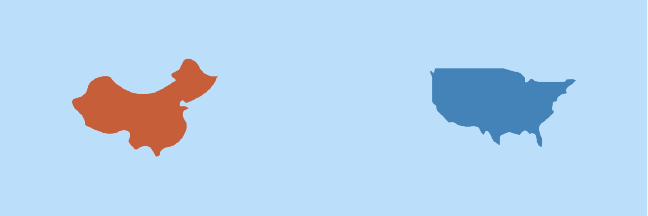
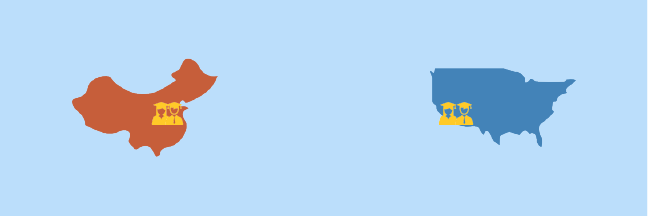
adjust cards and animation

Changed region(s): [[0.216, 0.4722, 0.3086, 0.5833], [0.679, 0.4722, 0.7407, 0.5833]]

diff --git a/index.html b/index.html
@@ -89,7 +89,7 @@
             <div id="studyfield">
                 
                 <div class="students">
-                    <img src="images/students.png" alt="students avatar">
+                    <!--<img src="images/students.png" alt="students avatar">-->
                     <a href="#studyingpath"><div class="mask"></div></a>
                 </div>
             
@@ -178,7 +178,7 @@
                                 <div class="back">
                                     <div class="card blue lighten-1">
                                         <div class="card-content white-text">
-                                           <p class="flow-text">In addition to the prosperous metropolitan cities such as Beijing, Shanghai and Guangzhou, more students whose hometowns are mid-size or small-size cities in China go to U.S. to pursue education.
+                                           <p id="detail_1">In addition to the prosperous metropolitan cities such as Beijing, Shanghai and Guangzhou, more students whose hometowns are mid-size or small-size cities in China go to U.S. to pursue education.
                                         </p> 
                                         </div>
                                         </div>
@@ -205,7 +205,7 @@
                                 <div class="back">
                                     <div class="card blue lighten-1">
                                         <div class="card-content white-text">
-                                           <p class="flow-text">The STEM majors will still be the popular choices for Chinese students. Nonetheless, students are choosing more diverse majors in different levels of education in U.S..
+                                           <p id="detail_2">The STEM majors will still be the popular choices for Chinese students. Nonetheless, students are choosing more diverse majors in different levels of education in U.S..
                                         </p> 
                                         </div>
                                         </div>
@@ -231,7 +231,7 @@
                                 <div class="back">
                                     <div class="card blue lighten-1">
                                         <div class="card-content white-text">
-                                           <p class="flow-text">Cities in the West and East Coast of U.S. are still popular destinations for Chinese students. Nonetheless, places where students traveling to pursue education become more diverse.
+                                           <p id="detail_3">Cities in the West and East Coast of U.S. are still popular destinations for Chinese students. Nonetheless, places where students traveling to pursue education become more diverse.
                                         </p> 
                                         </div>
                                         </div>

diff --git a/css/style.css b/css/style.css
@@ -7,7 +7,9 @@ body {
     position: absolute;
 }
 
-
+.wrapper {
+    width: 100%;
+}
 
 
 .topnav {
@@ -218,6 +220,7 @@ body {
     float: right;
 }
 
+/*
 .students img {
     position: relative;
     padding-right: 55px;
@@ -226,6 +229,7 @@ body {
     margin-bottom: -175px;
     margin-top: 150px;
 }
+*/
 
 .mask {
     width: 216px;
@@ -351,6 +355,50 @@ body {
     margin-left: 3.5px;
     padding-top: 25px;
     padding-bottom: 300px;
+    margin-bottom: 100px;
+    height: 373px;
+}
+
+
+
+
+.card {
+    width: 100%;
+    height: 375px;
+}
+
+/*.card-content {
+    vertical-align: middle;
+}*/
+
+#detail_1 {
+    font-size: 20px;
+    vertical-align: middle;
+    display: flex;
+    align-items: center;
+    justify-content: center;
+    line-height: 35px;
+    padding-top: 55px;
+}
+
+#detail_2 {
+    font-size: 20px;
+    vertical-align: middle;
+    display: flex;
+    align-items: center;
+    justify-content: center;
+    line-height: 35px;
+    padding-top: 75px;
+}
+
+#detail_3 {
+    font-size: 20px;
+    vertical-align: middle;
+    display: flex;
+    align-items: center;
+    justify-content: center;
+    line-height: 35px;
+    padding-top: 80px;
 }
 
 
@@ -372,9 +420,13 @@ body {
 
 
 
+
+
 .flip {
     transform-style: preserve-3d;
     transition: all 0.6s ease;
+    width: 100%;
+    height: 100%;
 }
 
 .flip:hover {
@@ -397,10 +449,7 @@ body {
     transform: rotateY(180deg);
 }
 
-.flow-text {
-    font-size: 20px;
-    padding: (10px,10px,10px,10px);
-}
+
 
 
 ul li {
